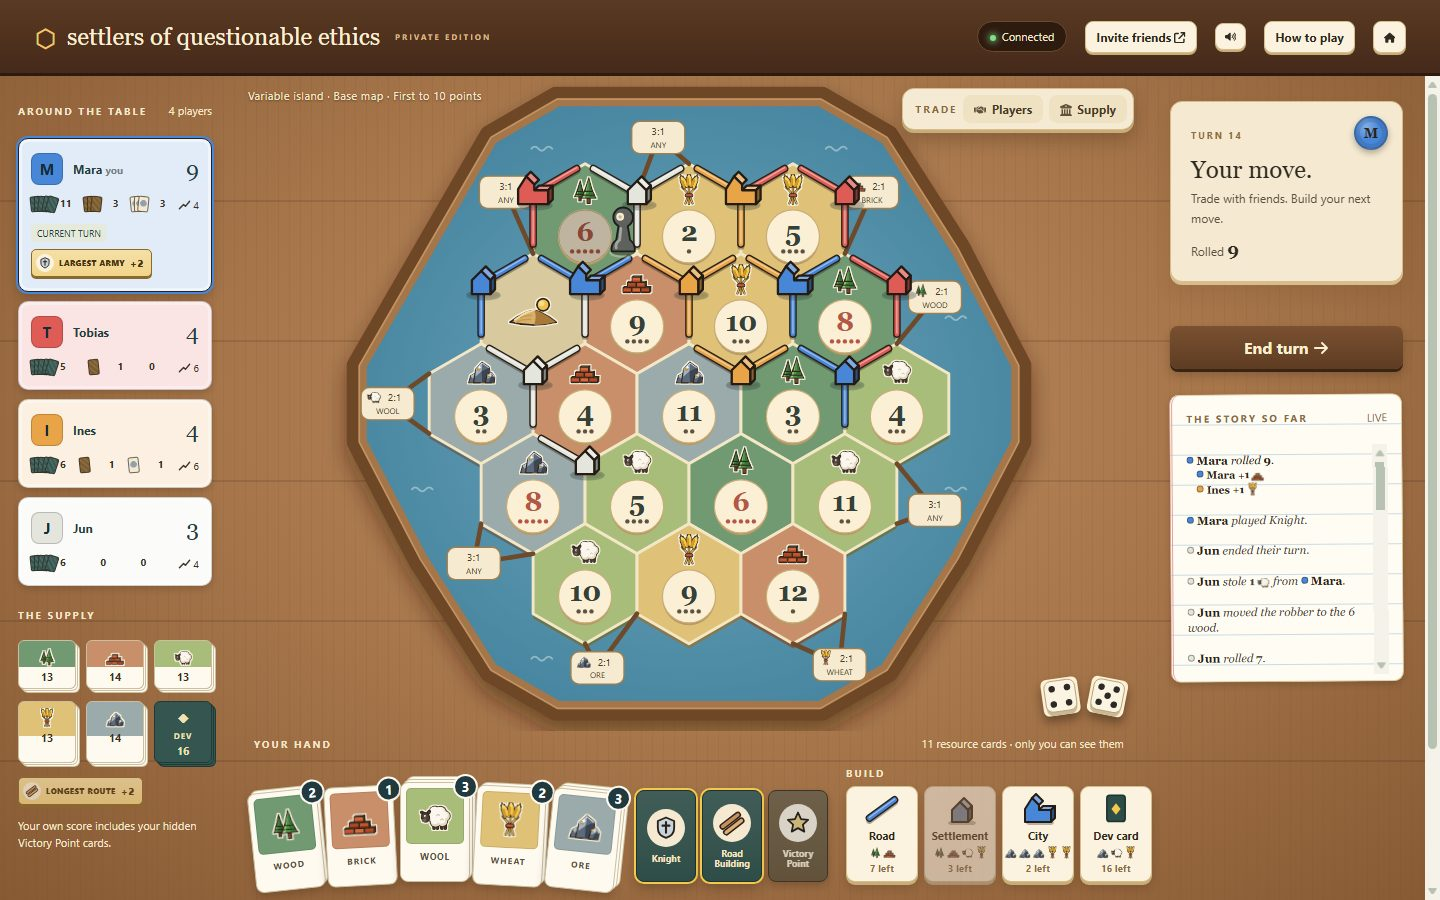
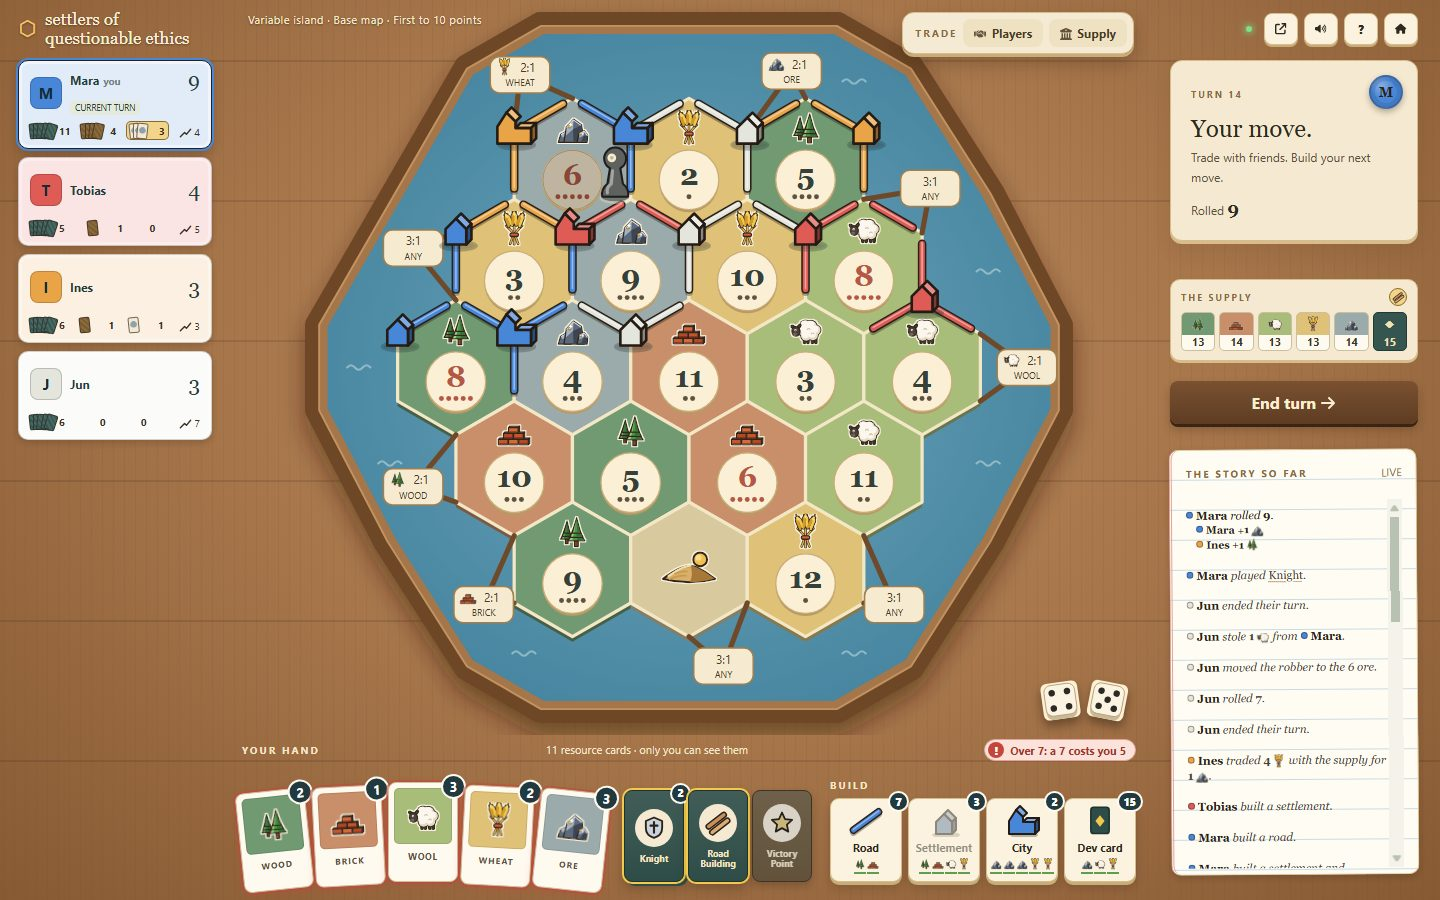
Docs, six-player review screen and fresh README screenshots for the bigger map
Claude-Session: https://claude.ai/code/session_01NKdWfyb7giABvaPdJEyz47

diff --git a/public/style.css b/public/style.css
@@ -438,7 +438,8 @@
 /* The hand stays one row: when space runs out development cards overlap, always showing at least 16px of each, so Build is never pushed off. */
 @media(min-width:851px){.hand-cards,.build-bar{flex:none}.dev-cards{flex:1 1 0;min-width:0;gap:0;--dev:60px}
 .dev-slot{flex:0 1 calc(var(--dev) + 6px);min-width:16px;position:relative}.dev-slot:last-child{flex:0 0 var(--dev)}.dev-slot:hover,.dev-slot:focus-within{z-index:2}}
-@media(min-width:851px) and (max-width:1400px){.dev-cards{--dev:52px}.hand{padding-left:12px;padding-right:12px}}
+@media(min-width:851px) and (max-width:1400px){.dev-cards{--dev:52px}}
+@media(min-width:851px) and (max-width:1700px){.hand{padding-left:12px;padding-right:12px}}
 /* Build takes its own row only when the cards really do not fit beside it, because that row comes out of the map. */
 @media(min-width:851px) and (max-width:1149px){.hand-row:has(.dev-slot:nth-child(2)){flex-wrap:wrap;row-gap:10px}.hand-row:has(.dev-slot:nth-child(2)) .build-bar{flex:0 0 100%;align-items:flex-end}}
 @media(min-width:851px) and (max-width:1091px){.hand-row:has(.dev-slot){flex-wrap:wrap;row-gap:10px}.hand-row:has(.dev-slot) .build-bar{flex:0 0 100%;align-items:flex-end}}

diff --git a/CLAUDE.md b/CLAUDE.md
@@ -22,7 +22,7 @@ Env vars: `PORT`, `HOST`, `DATA_DIR` (default `data/`, Docker `/data`), `PUBLIC_
 
 `test/server.test.mjs` spawns `server.mjs` with `PORT=0` and a temp `DATA_DIR` under `tmp/`, detecting the port from the `http://localhost:<port>` line on stdout — keep that log line format. `tmp/` and `data/` are gitignored scratch/state.
 
-Browser tests (`test/browser.test.mjs`) drive a real headless Chrome/Chromium/Edge through `test/browser.mjs`, a tiny DevTools Protocol client over Node's built-in `WebSocket` (no Playwright/Puppeteer). They auto-detect an installed browser (Edge on this machine), honor `BROWSER=<path>`, and skip when none exists. Each `newPage()` is an isolated browser context, i.e. a separate device with its own `localStorage`; clipboard writes are captured in `window.__copied`, and sound cues in `window.__sounds` once a test sets it to an array (see `listen`/`heard` in the browser tests; the cue names are the keys of `SFX` in `app.js`). The driver finds the endpoint via the profile's `DevToolsActivePort` file because Edge's launcher exits immediately and hands off to another process. Tests select elements by the client's `data-ui`/`data-command`/`data-vertex`/`data-edge`/`data-hex` attributes — keep those stable. To reach situations dice can't reliably produce (a seven with discards, specific hands, dealt dev cards, a stacked deck), the test-only `stage(server,pages,fn)` fixture opens the room's SQLite state between commands, lets `fn` edit it via `setHand`/`deal`/`topDeck` (which move cards to and from the bank and deck so supply and deck totals stay conserved), bumps `revision`, and reloads every page; everything after staging goes through the UI. Simultaneous actions (offers posted at once) can arrive in either order, so assert on content, not position. Buildings carry `data-owner` (-1 for neutral) and `data-kind`; trading happens in a panel floating over the board (`[data-ui="trade-panel"]` with tabs `data-mode="trade|bank"`, closed to `[data-ui="trade-launcher"]`; `trade-close`/`trade-show` dismiss and reopen offers); the lobby settings are selects `[data-setting="map|setup|goal|limit|friendly|public"]` for the host (others see `[data-value=…]`; `[data-ui="settings"]` carries the confirmed values as `data-map`, `data-goal`…); bots: the host adds one with `[data-command="addBot"]` on an open seat and removes it with `[data-remove-bot="<seat>"]`, bot lobby seats carry `data-bot`, the host removes a person with `[data-kick="<seat>"]` (the kicked page goes home with a toast); lobby seats carry `data-seat` and `data-seat-color`, and your own (`.lobby-seat.own`) holds the swatches `[data-ui="colors"] [data-color="<hex>"]` with `data-state="mine|free|bot|person|asked"`, `[data-ui="color-asked"]` for your open request and `[data-ui="color-ask"]` with `[data-swap-accept="<id>"]`/`[data-swap-decline="<id>"]` for ones to you; the home Join tab lists open tables in `[data-ui="open-tables"]`, rows `[data-open="<room>"]` with `[data-join]` (submits `#entry` with that code) or `[data-resume]`; an away human's sidebar card has `[data-takeover="<seat>"]`, and a seat a bot stands in for shows its name with " (Bot)" (`named()` in `app.js`); the starting roll is `[data-ui="order"]` with your dice as `[data-command="firstRoll"]` (`rollForStart(pages)` taps all at once and returns the pages that saw the result held); a finished round stays up 3 s with `data-held="tie|first"` (`heldOrder()` in `app.js`); discards happen in a window `[data-ui="discard"]` holding `#discard`, and holding more than the limit shows `[data-ui="discard-risk"]`; building happens from the build bar beside the hand (`[data-ui="build-bar"]`, buttons `data-mode="road|settlement|city"` and `data-command="buyCard"`); tooltips are `data-tip` attributes (never `title`), shown by one `#tip` layer after a hover with a moving pointer (a `pointerover` at the last `pointermove` position is ignored, so content appearing under a still pointer stays quiet) (the driver's `page.hover(selector)`) or a long press, and hovering a `.road[data-road][data-owner]` lights that player's longest route (`routeEdges` in `view()`, from `routePath()`); card pickers (trade, discard, invention) keep their counts in hidden `give-*`/`want-*`/`discard-*`/`take-*` inputs and the supply trade in hidden `give`/`want` inputs, so tests can still set them with `fill()`. `node scripts/review-screens.mjs <dir>` stages a 4-player game and saves screenshots of every major screen (via the driver's `screenshot()`), for design reviews. CI runners are much slower than this machine; set `THROTTLE=6` (CDP CPU throttling) to shake out timing flakes locally before pushing.
+Browser tests (`test/browser.test.mjs`) drive a real headless Chrome/Chromium/Edge through `test/browser.mjs`, a tiny DevTools Protocol client over Node's built-in `WebSocket` (no Playwright/Puppeteer). They auto-detect an installed browser (Edge on this machine), honor `BROWSER=<path>`, and skip when none exists. Each `newPage()` is an isolated browser context, i.e. a separate device with its own `localStorage`; clipboard writes are captured in `window.__copied`, and sound cues in `window.__sounds` once a test sets it to an array (see `listen`/`heard` in the browser tests; the cue names are the keys of `SFX` in `app.js`). The driver finds the endpoint via the profile's `DevToolsActivePort` file because Edge's launcher exits immediately and hands off to another process. Tests select elements by the client's `data-ui`/`data-command`/`data-vertex`/`data-edge`/`data-hex` attributes — keep those stable. To reach situations dice can't reliably produce (a seven with discards, specific hands, dealt dev cards, a stacked deck), the test-only `stage(server,pages,fn)` fixture opens the room's SQLite state between commands, lets `fn` edit it via `setHand`/`deal`/`topDeck` (which move cards to and from the bank and deck so supply and deck totals stay conserved), bumps `revision`, and reloads every page; everything after staging goes through the UI. Simultaneous actions (offers posted at once) can arrive in either order, so assert on content, not position. Buildings carry `data-owner` (-1 for neutral) and `data-kind`; trading happens in a panel floating over the board (`[data-ui="trade-panel"]` with tabs `data-mode="trade|bank"`, closed to `[data-ui="trade-launcher"]`; `trade-close`/`trade-show` dismiss and reopen offers); the lobby settings are selects `[data-setting="map|setup|goal|limit|friendly|public"]` for the host (others see `[data-value=…]`; `[data-ui="settings"]` carries the confirmed values as `data-map`, `data-goal`…); bots: the host adds one with `[data-command="addBot"]` on an open seat and removes it with `[data-remove-bot="<seat>"]`, bot lobby seats carry `data-bot`, the host removes a person with `[data-kick="<seat>"]` (the kicked page goes home with a toast); lobby seats carry `data-seat` and `data-seat-color`, and your own (`.lobby-seat.own`) holds the swatches `[data-ui="colors"] [data-color="<hex>"]` with `data-state="mine|free|bot|person|asked"`, `[data-ui="color-asked"]` for your open request and `[data-ui="color-ask"]` with `[data-swap-accept="<id>"]`/`[data-swap-decline="<id>"]` for ones to you; the home Join tab lists open tables in `[data-ui="open-tables"]`, rows `[data-open="<room>"]` with `[data-join]` (submits `#entry` with that code) or `[data-resume]`; an away human's sidebar card has `[data-takeover="<seat>"]`, and a seat a bot stands in for shows its name with " (Bot)" (`named()` in `app.js`); the starting roll is `[data-ui="order"]` with your dice as `[data-command="firstRoll"]` (`rollForStart(pages)` taps all at once and returns the pages that saw the result held); a finished round stays up 3 s with `data-held="tie|first"` (`heldOrder()` in `app.js`); discards happen in a window `[data-ui="discard"]` holding `#discard`, and holding more than the limit shows `[data-ui="discard-risk"]`; building happens from the build bar beside the hand (`[data-ui="build-bar"]`, buttons `data-mode="road|settlement|city"` and `data-command="buyCard"`); development cards sit in `.dev-slot`s that overlap when space is tight (a center click can land on the next card, so tests of that case hit the visible edge); the supply is `[data-ui="supply"]` under the turn card, chips `[data-supply="wood|…|deck"]` and unclaimed awards `[data-award]`; a card's held award is `.stat.award-held[data-award]`; above 850px `header(true)` during a game gives `.topbar.over`, which has no height and no pointer events of its own (hover `.brand` instead), with `.connection.offline` when not connected; `sixSeats()` plus `stage(…,hostTurn)` gives a full table with idle bots; tooltips are `data-tip` attributes (never `title`), shown by one `#tip` layer after a hover with a moving pointer (a `pointerover` at the last `pointermove` position is ignored, so content appearing under a still pointer stays quiet) (the driver's `page.hover(selector)`) or a long press, and hovering a `.road[data-road][data-owner]` lights that player's longest route (`routeEdges` in `view()`, from `routePath()`); card pickers (trade, discard, invention) keep their counts in hidden `give-*`/`want-*`/`discard-*`/`take-*` inputs and the supply trade in hidden `give`/`want` inputs, so tests can still set them with `fill()`. `node scripts/review-screens.mjs <dir>` stages a 4-player game and saves screenshots of every major screen (via the driver's `screenshot()`), for design reviews. CI runners are much slower than this machine; set `THROTTLE=6` (CDP CPU throttling) to shake out timing flakes locally before pushing.
 
 ## Architecture
 

diff --git a/docs/work/010-bigger-map-fixed-sidebar.md b/docs/work/010-bigger-map-fixed-sidebar.md
@@ -1,6 +1,6 @@
 # 010: Bigger map, fixed player sidebar, a new home for the supply
 
-**Status:** in progress · **Commits:** —
+**Status:** done · **Commits:** 9763257, 14280b4, 8822e5c, e648791, 0ca8090, and the docs commit
 
 ## Feedback
 2026-11-04, owner:
@@ -82,8 +82,17 @@ Round 2 (REVISE, "no need for a full further round"), all accepted: `flex:1 1 0`
 ## Progress
 | Step | State | Commit | Notes |
 |---|---|---|---|
+| 1 Supply | done | 9763257 | Row is about 96px with its margin, more than the 50px estimated; the log absorbs it. |
+| 2 Banner | done | 14280b4 | 479→555px at 1280×720, 839→915px at 1920×1080, as predicted. Committed with one failing test by mistake: see the flake note. |
+| 3 Cards | done | 8822e5c, e648791 | The screenshot caught what the test missed: gold stats spilled out once a player held dev cards. Test now deals them; the printed +2 went (2b). |
+| 4 Hand | done | 0ca8090 | Hand padding 12px up to 1400 wide, or 1251 wide had no room for five kinds. Build wraps only when the cards really do not fit (1 kind fits from 1092 wide, 2+ kinds from 1150, none from 1040), because a forced row cost the map 105px at 1100 wide. Turn label cleared of its seal and narrow fans slimmed, since the narrow columns now reach 1250. |
+| 5 Docs | done | see git log | Review script has a six-player shot; README screenshots refreshed. |
+
+**Flake:** `browser: invite, lobby, live setup…` failed once in a full run ("the starting roll result was not held on every screen", 0 of 3) and then passed 6 of 6 alone and in every later full run. Its polling can miss the 3 s hold under load. Unrelated to layout, not fixed here: item 011.
 
 ## Not verified
+- A real phone or touch screen. On touch at 1100–1400 wide, an overlapped dev card shows only its edge; a long press gives the tip.
+- The owner's real six-person game, and how the icon-only options feel. "How to play" and "Invite friends" lost their words on desktop.
 
 ## Next step / Handoff prompt
-Read `CLAUDE.md`, then this file. Step 1 is next.
+Done. Leftover: item 011.

diff --git a/.claude/skills/answering-feedback/SKILL.md b/.claude/skills/answering-feedback/SKILL.md
@@ -54,7 +54,8 @@ Then show the owner the final plan in short (decisions, steps, what the review c
 
 ## 6. Implement and verify
 
-- Do the steps in order. After each step: `npm test` passes, commit (one commit per step), then update the item: what was done, the commit hash, surprises and gotchas, what's next.
+- Do the steps in order. After each step: `npm test` passes, commit (one commit per step), then update the item: what was done, the commit hash, surprises and gotchas, what's next. Make the commit conditional on the test exit code; never chain it after a test run unchecked.
+- For layout work, look at a screenshot of the hardest realistic state before committing. Fit tests only catch what their fixture holds.
 - Verify for real: tests that fail without the change, browser tests for UI (selectors on `data-ui`/`data-command`…), screenshots via `scripts/review-screens.mjs` for visual changes (send them to the owner), `THROTTLE=6 npm test` before the last commit. Send its output to a file (in the scratchpad), so a one-off failure can still be read afterwards.
 - Say what was **not** verified (e.g. sound by ear, a real phone). Those go into the item's "Not verified" list, and into an open item if the owner has to check them.
 - Check session usage after each step if a usage tool is available (e.g. `mcp__ccd_session_mgmt__get_usage`). If the 5-hour limit, weekly limit or context is **over 85%**, park: commit what's finished, set the status to `parked`, write the handoff prompt in the item, update the index, and stop.

diff --git a/docs/project-log.md b/docs/project-log.md
@@ -376,3 +376,12 @@ Plan: [`work/009-lobby-colours.md`](work/009-lobby-colours.md), reviewed by a se
 - **Your colour, not your seat's.** Your seat card in the lobby has six swatches. A free colour is yours at once, a bot swaps with you, and a person gets a request to accept or decline.
 - **It stays.** Someone leaving no longer recolours the others, and a rematch keeps everyone's colour.
 - **Five players on a fixed island.** The rulebook's colour draw really decides who starts where, so the starting spots are still drawn at random and the chosen colours stay.
+
+## 16. More map, a sidebar that stays still
+
+Plan: [`work/010-bigger-map-fixed-sidebar.md`](work/010-bigger-map-fixed-sidebar.md), reviewed by a second agent over two rounds.
+
+- **No banner during a game.** The name sits above the player cards and the options, now icons, above the right column. The map runs to the top of the window: 16% taller at 1280×720.
+- **Six cards, no scrolling.** The left column holds only player cards, all one size, so nothing moves when the turn passes. A held award lights the matching stat in gold.
+- **The supply** is a slim row under the turn card, in view all game.
+- **Build is never hidden.** Development cards overlap when space is tight; before, a few kinds of card pushed the Build buttons under the story log at 1280 wide.

diff --git a/docs/work/README.md b/docs/work/README.md
@@ -6,7 +6,7 @@ Every piece of feedback or planned work is a work item: one file `NNN-slug.md` h
 
 | # | Item | Status | Next step |
 |---|---|---|---|
-| 010 | [Bigger map, fixed player sidebar, new home for the supply](010-bigger-map-fixed-sidebar.md) | in progress | Step 1 |
+| 011 | [Starting-roll test can miss the 3 s hold under load](011-starting-roll-test-flake.md) | planned | Record the hold in the page instead of polling |
 | 005 | [Checks that tests could not do](005-unverified-checks.md) | waiting on owner | Owner: sounds, phone, steal tooltip, human-vs-bots game. Claude: screenshots at 1280×720, extended board, phone |
 | 006 | [Tooltips left out in round 2](006-tooltip-gaps.md) | questions | Ask the owner whether player-card and robber tips are still wanted |
 
@@ -14,6 +14,7 @@ Every piece of feedback or planned work is a work item: one file `NNN-slug.md` h
 
 | # | Item | Finished |
 |---|---|---|
+| 010 | [Bigger map, fixed player sidebar, new home for the supply](010-bigger-map-fixed-sidebar.md) | 2026-11-04 |
 | 009 | [Choosing a colour in the lobby](009-lobby-colours.md) | 2026-11-04 |
 | 008 | [Open tables, kicking, lobby cleanup](008-open-tables.md) | 2026-11-04 |
 | 007 | [Keep the starting roll on screen](007-starting-roll-hold.md) | 2026-11-04 |

diff --git a/README.md b/README.md
@@ -78,7 +78,7 @@ Open http://localhost:3000. `PORT`, `HOST`, `DATA_DIR`, `PUBLIC_ORIGIN`, and `LO
 ## Play and reconnect
 
 - The server validates all moves and supplies dice, shuffles, and random thefts.
-- Tap the glowing dice to roll. Build from the bar beside your hand, then click a highlighted edge or intersection; Esc cancels. **How to play** explains the rules in-game.
+- Tap the glowing dice to roll. Build from the bar beside your hand, then click a highlighted edge or intersection; Esc cancels. **How to play** (the **?** at the top right during a game) explains the rules.
 - On your turn, open **Trade → Players** to offer a trade to everyone, or **Supply** for 4:1 and port trades. Other players accept, decline or **Counter**; you confirm with one of the players who accepted. Close the trade panel to hide offers until a new one arrives.
 - When only one player can be robbed, the robber steals from them at once.
 - Only you receive your private cards. Your own score includes hidden Victory Point cards; other players see your public score until the game ends.

diff --git a/docs/work/011-starting-roll-test-flake.md b/docs/work/011-starting-roll-test-flake.md
@@ -1,0 +1,18 @@
+# 011: Starting-roll test can miss the 3 s hold under load
+
+**Status:** planned · **Commits:** —
+
+## Feedback
+None: found during item 010 (2026-11-04).
+
+## Current state
+`browser: invite, lobby, live setup, turns, reload and seat recovery` failed once in a full `npm test`: "the starting roll result was not held on every screen" (0 !== 3). It passed 6 of 6 alone and in later full runs. `rollForStart()` (`test/browser.test.mjs`) polls each page in turn every 150 ms, and each poll is a DevTools round trip, so under load it may not see `[data-held="first"]` on every page within the hold.
+
+## Open questions
+- (none)
+
+## Plan
+Record the held state in the page when it appears (for example a small observer the test installs) rather than polling for it; then the assertion no longer depends on timing. Verify with `THROTTLE=6`.
+
+## Next step / Handoff prompt
+Read `CLAUDE.md`, then this file, and make the change above.
